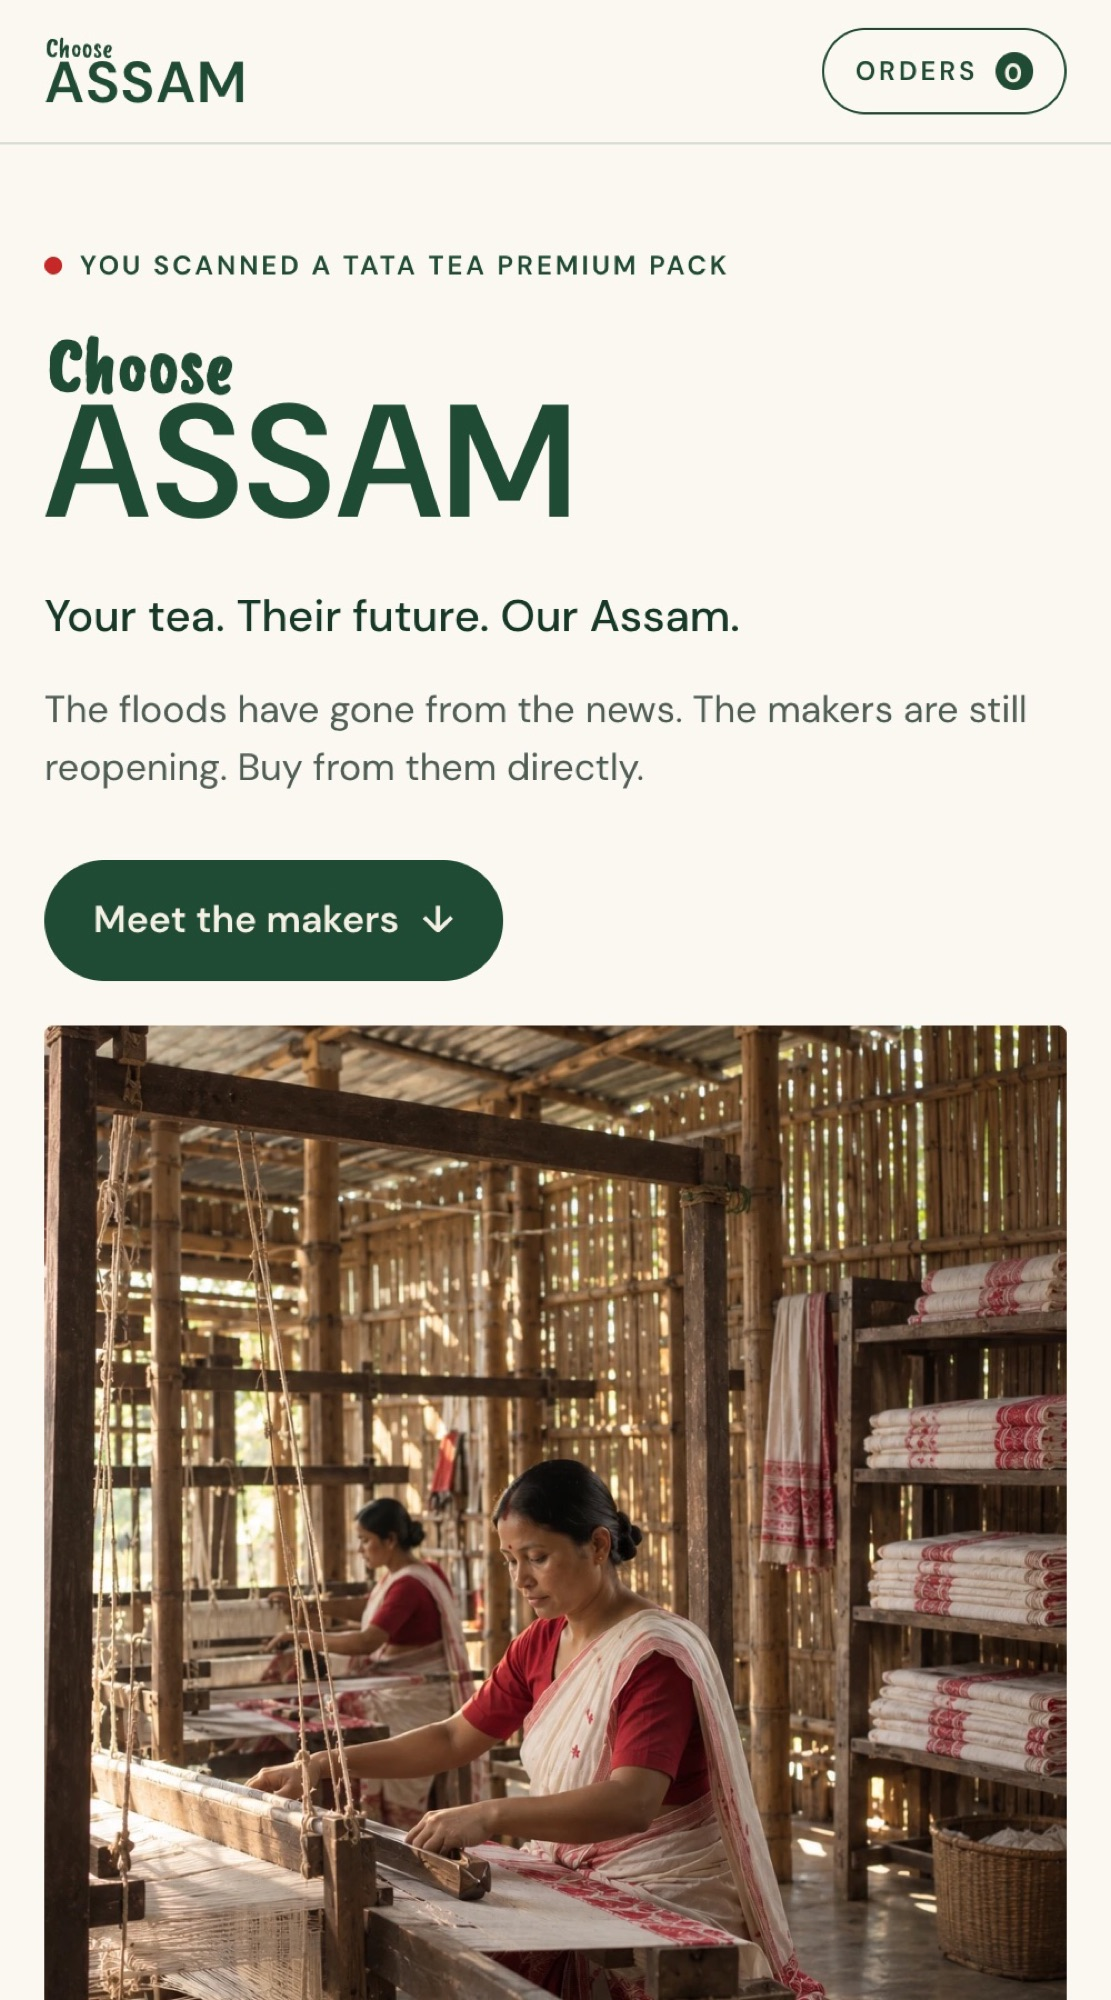
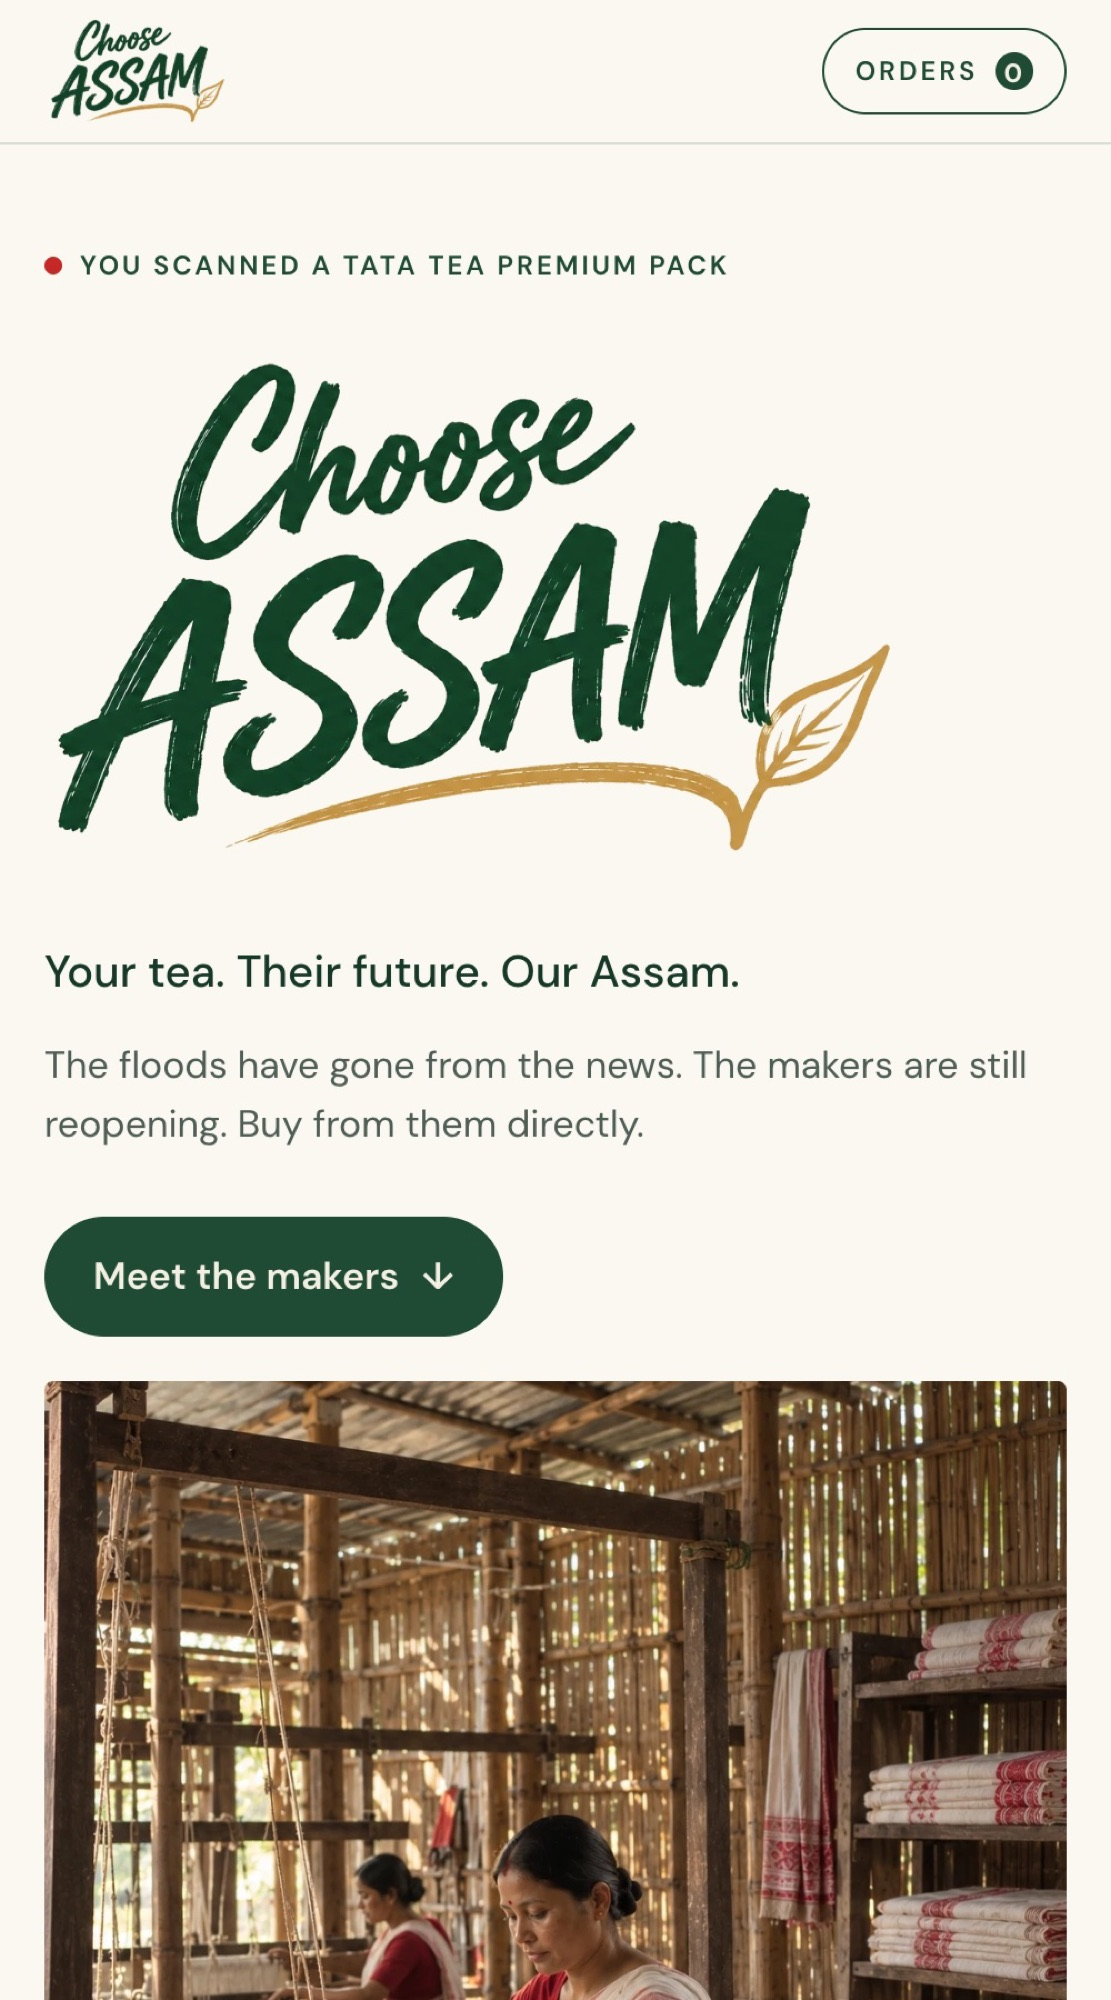
Choose Assam: one brand across every touchpoint
Sync the case study with the campaign repo: the real logo replaces the
font stand-in on the microsite, and the pack, hang tag, billboard and
end-cap images now share one logo and copy system.

diff --git a/public/choose-assam/index.html b/public/choose-assam/index.html
@@ -112,6 +112,14 @@ figcaption { margin-top: 12px; }
 .sources li { padding: 14px 0; border-bottom: 1px solid var(--rule); font-size: 15px; line-height: 1.45; }
 .sources li span { display: block; color: var(--ink-2); }
 
+.id-panel { background: #F4EFE3; display: grid; place-items: center; padding: clamp(56px, 10vw, 160px) var(--gutter); }
+.id-panel img { width: min(560px, 80%); }
+.swatches { display: grid; grid-template-columns: repeat(4, minmax(0, 1fr)); gap: clamp(8px, 1vw, 16px); margin-top: clamp(8px, 1vw, 16px); }
+.swatches li { display: grid; gap: 4px; }
+.swatches i { display: block; aspect-ratio: 3 / 1; margin-bottom: 8px; }
+.swatches li:nth-child(2) i { outline: 1px solid var(--rule); outline-offset: -1px; }
+@media (max-width: 820px) { .swatches { grid-template-columns: repeat(2, minmax(0, 1fr)); row-gap: 20px; } }
+
 footer { padding: 28px var(--gutter) 40px; display: flex; justify-content: space-between; gap: 24px; }
 
 @media (prefers-reduced-motion: no-preference) {
@@ -279,38 +287,43 @@ footer { padding: 28px var(--gutter) 40px; display: flex; justify-content: space
     <ol class="row-6">
       <li><a href="/choose-assam#top" aria-label="Play the film at the top of the page"><img src="assets/tp-film.jpg" alt="A family watches the Choose Assam film on TV at home" loading="lazy"></a><div class="n label"><span>Cinematic film</span><span class="muted">60s anthem</span></div></li>
       <li><img src="assets/tp-social.jpg" alt="A commuter watches a Choose Assam reel on her phone on a Mumbai local train" loading="lazy"><div class="n label"><span>Social media</span><span class="muted">Vertical cuts, maker stories</span></div></li>
-      <li><img src="assets/tp-pack.jpg" alt="A hand takes a Choose Assam pack from a kitchen shelf" loading="lazy"><div class="n label"><span>Packaging</span><span class="muted">Limited-edition pack</span></div></li>
-      <li><img src="assets/tp-qr.jpg" alt="Scanning the QR hang tag on a Choose Assam pack" loading="lazy"><div class="n label"><span>QR code</span><span class="muted">Pack, tag, billboard</span></div></li>
+      <li><img src="assets/pour.jpg" alt="Tea poured beside the Choose Assam pack on a kitchen table" loading="lazy" style="object-position:72% 50%"><div class="n label"><span>Packaging</span><span class="muted">Limited-edition pack</span></div></li>
+      <li><img src="assets/hang-tag.jpg" alt="The Choose Assam hang tag and its QR card: scan to meet the maker" loading="lazy"><div class="n label"><span>QR code</span><span class="muted">Pack, tag, billboard</span></div></li>
       <li><a href="site/index.html" aria-label="Open the Choose Assam microsite"><img src="assets/site-shot.jpg" alt="Choose Assam microsite on a phone" loading="lazy" style="object-position:50% 0"></a><div class="n label"><span>Website</span><span class="muted">Maker directory</span></div></li>
-      <li><img src="assets/identity-lockup.jpg" alt="Choose Assam lockup and hang tag" loading="lazy"><div class="n label"><span>Branding</span><span class="muted">Choose Assam identity</span></div></li>
+      <li><img src="assets/lockup.png" alt="Choose Assam logo" loading="lazy" style="object-fit:contain;background:#F4EFE3;padding:16%"><div class="n label"><span>Branding</span><span class="muted">Choose Assam identity</span></div></li>
     </ol>
   </section>
 
-  <figure class="wrap gap-xl rv">
-    <img src="assets/identity-sheet.jpg" alt="Choose Assam identity: lockup, motifs, colours, typography and tone of voice" loading="lazy">
-    <figcaption class="label muted">Identity · Choose Assam</figcaption>
-  </figure>
+  <section class="wrap gap-xl rv" aria-label="Identity">
+    <div class="id-panel"><img src="assets/lockup.png" alt="Choose Assam logo: a brush-script Choose over brushed ASSAM, with a gold tea-leaf underline" loading="lazy"></div>
+    <ol class="swatches label">
+      <li><i style="background:#1F4B34"></i><span>Assam Green</span><span class="muted">#1F4B34</span></li>
+      <li><i style="background:#F4EFE3"></i><span>Warm Ivory</span><span class="muted">#F4EFE3</span></li>
+      <li><i style="background:#C8A46A"></i><span>Muga Gold</span><span class="muted">#C8A46A</span></li>
+      <li><i style="background:#C62828"></i><span>Gamosa Red</span><span class="muted">#C62828</span></li>
+    </ol>
+    <p class="label muted" style="margin-top:12px">Identity · One logo on every touchpoint</p>
+  </section>
 
   <figure class="gap-xl bleed rv">
-    <img src="assets/figma-01.jpg" alt="Choose Assam limited-edition Tata Tea Premium pouch with hang tag on a wooden table" loading="lazy">
+    <img src="assets/pack-front.jpg" alt="Choose Assam limited-edition Tata Tea Premium pouch: Now put Assam in your cart" loading="lazy">
     <figcaption class="wrap label muted">Pack · Front</figcaption>
   </figure>
 
   <section class="wrap gap-lg pair rv" aria-label="Pack and retail">
-    <figure><img src="assets/figma-02.jpg" alt="Back of the pouch with an Assam map and maker stories" loading="lazy"><figcaption class="label muted">Pack · Back</figcaption></figure>
+    <figure><img src="assets/pack-back.jpg" alt="Back of the pouch: This pack doesn't donate. It points. Scan the tag to meet the makers open this week." loading="lazy"><figcaption class="label muted">Pack · Back</figcaption></figure>
     <div class="drop">
       <p class="note">This pack doesn't donate. It points to the makers who are open this week.</p>
-      <figure class="gap-lg"><img src="assets/film-pour.jpg" alt="Tea poured into a cup beside the Choose Assam pack" loading="lazy"></figure>
     </div>
   </section>
 
   <figure class="wrap gap-lg rv">
-    <img src="assets/figma-03.jpg" alt="Supermarket end-cap stocked with Choose Assam packs" loading="lazy">
+    <img src="assets/endcap.jpg" alt="Supermarket end-cap: Assam makes a lot more than tea. Now put Assam in your cart." loading="lazy">
     <figcaption class="label muted">Retail · End-cap</figcaption>
   </figure>
 
   <figure class="gap-xl bleed rv">
-    <img src="assets/figma-07.jpg" alt="Guwahati roadside billboard: this billboard used to sell tea, today it sells Jonali's work" loading="lazy">
+    <img src="assets/billboard.jpg" alt="Guwahati roadside billboard: this billboard used to sell tea, today it sells Jonali's work" loading="lazy">
     <figcaption class="wrap label muted">Outdoor · GS Road, Guwahati</figcaption>
   </figure>
 

diff --git a/public/choose-assam/site/index.html b/public/choose-assam/site/index.html
@@ -7,7 +7,7 @@
 <meta name="description" content="You scanned a Choose Assam pack. Meet the makers of Assam who are open this week, and order from them directly.">
 <link rel="preconnect" href="https://fonts.googleapis.com">
 <link rel="preconnect" href="https://fonts.gstatic.com" crossorigin>
-<link href="https://fonts.googleapis.com/css2?family=Caveat+Brush&family=DM+Sans:opsz,wght@9..40,300..700&display=swap" rel="stylesheet">
+<link href="https://fonts.googleapis.com/css2?family=DM+Sans:opsz,wght@9..40,300..700&display=swap" rel="stylesheet">
 <style>
 :root {
   --green: #1F4B34;
@@ -36,14 +36,13 @@ button { font: inherit; }
 .label { font-size: 12px; font-weight: 600; letter-spacing: 0.12em; text-transform: uppercase; }
 .muted { color: var(--ink-2); }
 .wrap { padding: 0 var(--gutter); max-width: 1320px; margin: 0 auto; }
-.lockup { display: inline-flex; flex-direction: column; line-height: 0.82; color: var(--green); }
-.lockup .s { font-family: 'Caveat Brush', cursive; font-size: 0.5em; margin-left: 0.04em; }
-.lockup .c { font-weight: 600; letter-spacing: 0.02em; }
+.lockup { display: block; margin: 0; }
+.lockup img { width: 100%; height: auto; }
 
 /* nav */
 .nav { position: sticky; top: 0; z-index: 5; background: color-mix(in srgb, var(--paper) 94%, transparent); backdrop-filter: blur(8px); border-bottom: 1px solid var(--rule); }
 .nav .wrap { display: flex; align-items: center; justify-content: space-between; gap: 20px; height: 64px; }
-.nav .lockup { font-size: 26px; }
+.nav .lockup { width: 84px; }
 .nav nav { display: flex; gap: clamp(14px, 2.4vw, 32px); }
 .nav nav a { text-decoration: none; }
 .nav nav a:hover { color: var(--red); }
@@ -52,7 +51,7 @@ button { font: inherit; }
 
 /* hero */
 .hero { display: grid; grid-template-columns: minmax(0, 1fr) minmax(0, 1fr); gap: var(--gutter); align-items: end; padding-top: clamp(40px, 7vw, 96px); }
-.hero .lockup { font-size: clamp(72px, 10vw, 150px); }
+.hero .lockup { width: min(440px, 88%); margin-left: -2%; }
 .hero .tag { font-size: clamp(20px, 2vw, 26px); margin-top: 24px; font-weight: 500; }
 .hero .sub { margin-top: 14px; max-width: 38ch; color: var(--ink-2); }
 .cta { display: inline-flex; align-items: center; gap: 10px; margin-top: 28px; padding: 14px 22px; background: var(--green); color: var(--ivory); border: 0; border-radius: 999px; text-decoration: none; font-weight: 600; cursor: pointer; transition: background-color 200ms var(--ease-out); }
@@ -109,7 +108,6 @@ button { font: inherit; }
 /* promise + footer */
 .promise { text-align: center; padding: clamp(96px, 12vw, 180px) var(--gutter); }
 .promise p { font-size: clamp(28px, 3.6vw, 52px); font-weight: 300; letter-spacing: -0.03em; line-height: 1.1; max-width: 22ch; margin: 0 auto; }
-.promise .s { font-family: 'Caveat Brush', cursive; color: var(--red); }
 footer { border-top: 1px solid var(--rule); }
 footer .wrap { display: flex; justify-content: space-between; gap: 24px; padding-top: 24px; padding-bottom: 32px; flex-wrap: wrap; }
 
@@ -133,7 +131,7 @@ footer .wrap { display: flex; justify-content: space-between; gap: 24px; padding
 
 <header class="nav">
   <div class="wrap">
-    <a href="#top" class="lockup" style="text-decoration:none" aria-label="Choose Assam home"><span class="s">Choose</span><span class="c">ASSAM</span></a>
+    <a href="#top" class="lockup" aria-label="Choose Assam home"><img src="../assets/lockup.png" alt="Choose Assam"></a>
     <nav class="label" aria-label="Main">
       <a href="#makers">Makers</a>
       <a href="#story">Stories</a>
@@ -147,7 +145,7 @@ footer .wrap { display: flex; justify-content: space-between; gap: 24px; padding
   <section class="wrap hero">
     <div>
       <p class="scanned label">You scanned a Tata Tea Premium pack</p>
-      <h1 class="lockup"><span class="s">Choose</span><span class="c">ASSAM</span></h1>
+      <h1 class="lockup"><img src="../assets/lockup.png" alt="Choose Assam"></h1>
       <p class="tag">Your tea. Their future. Our Assam.</p>
       <p class="sub">The floods have gone from the news. The makers are still reopening. Buy from them directly.</p>
       <a class="cta" href="#makers">Meet the makers <span aria-hidden="true">↓</span></a>
